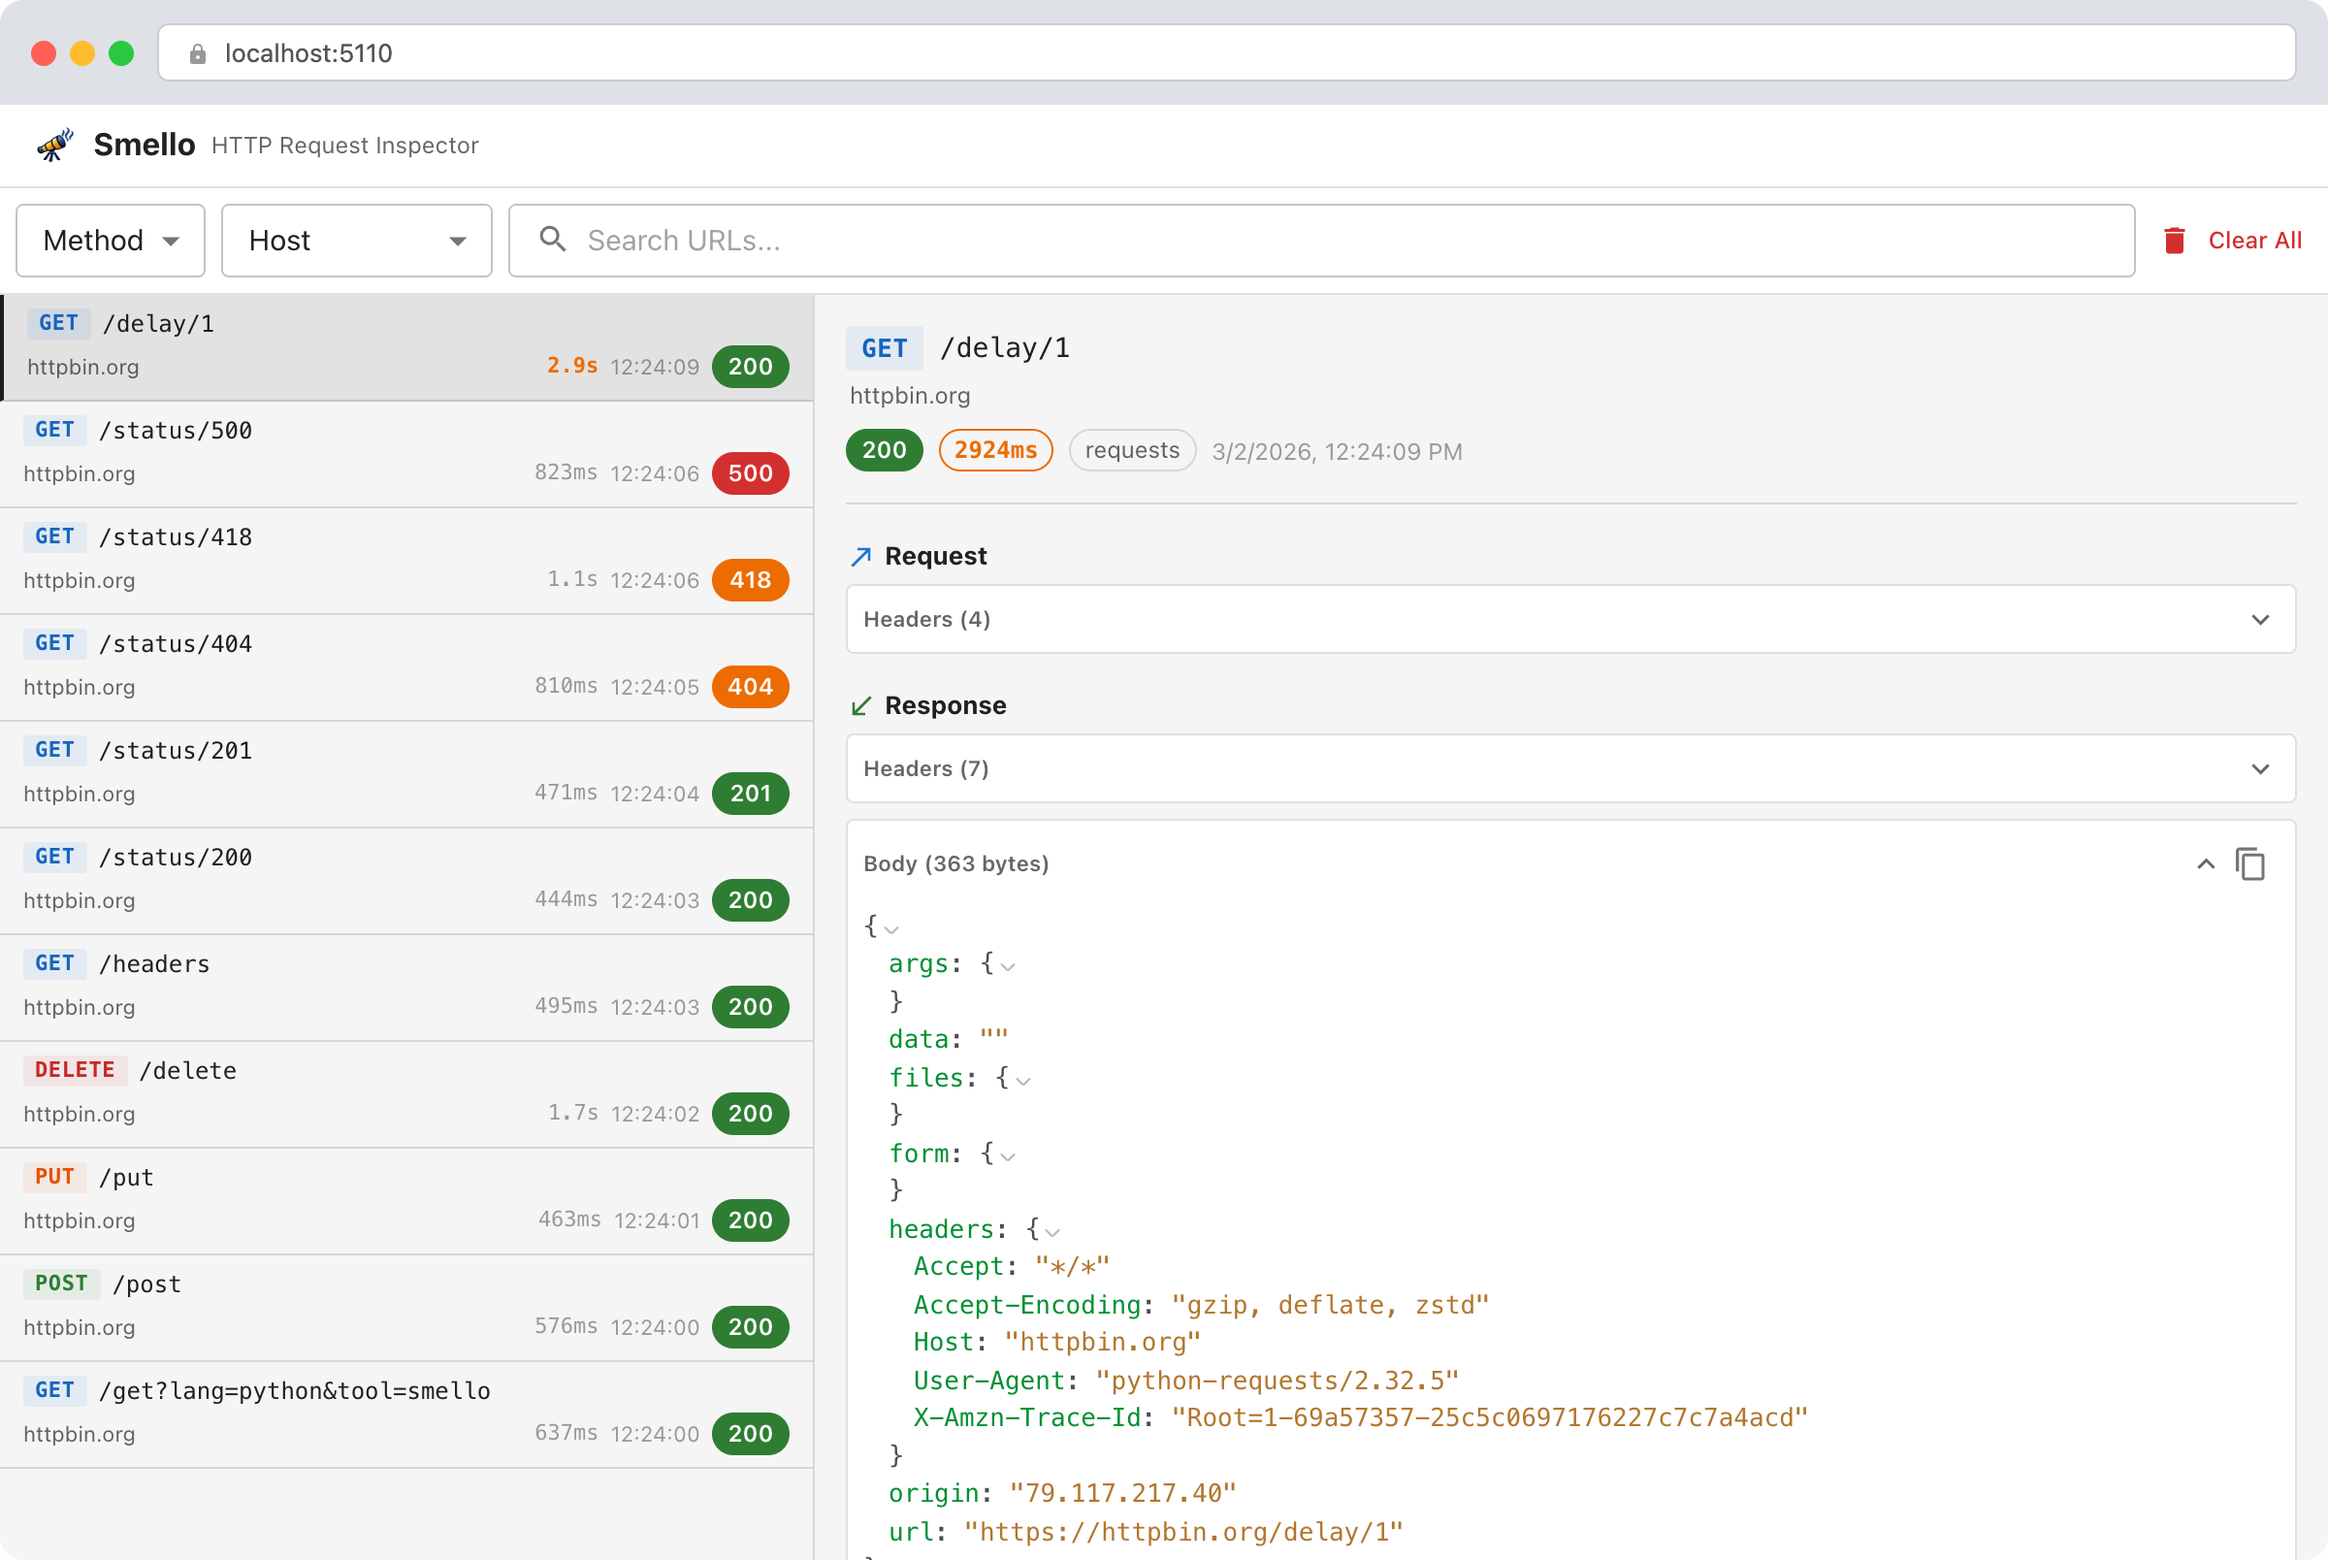
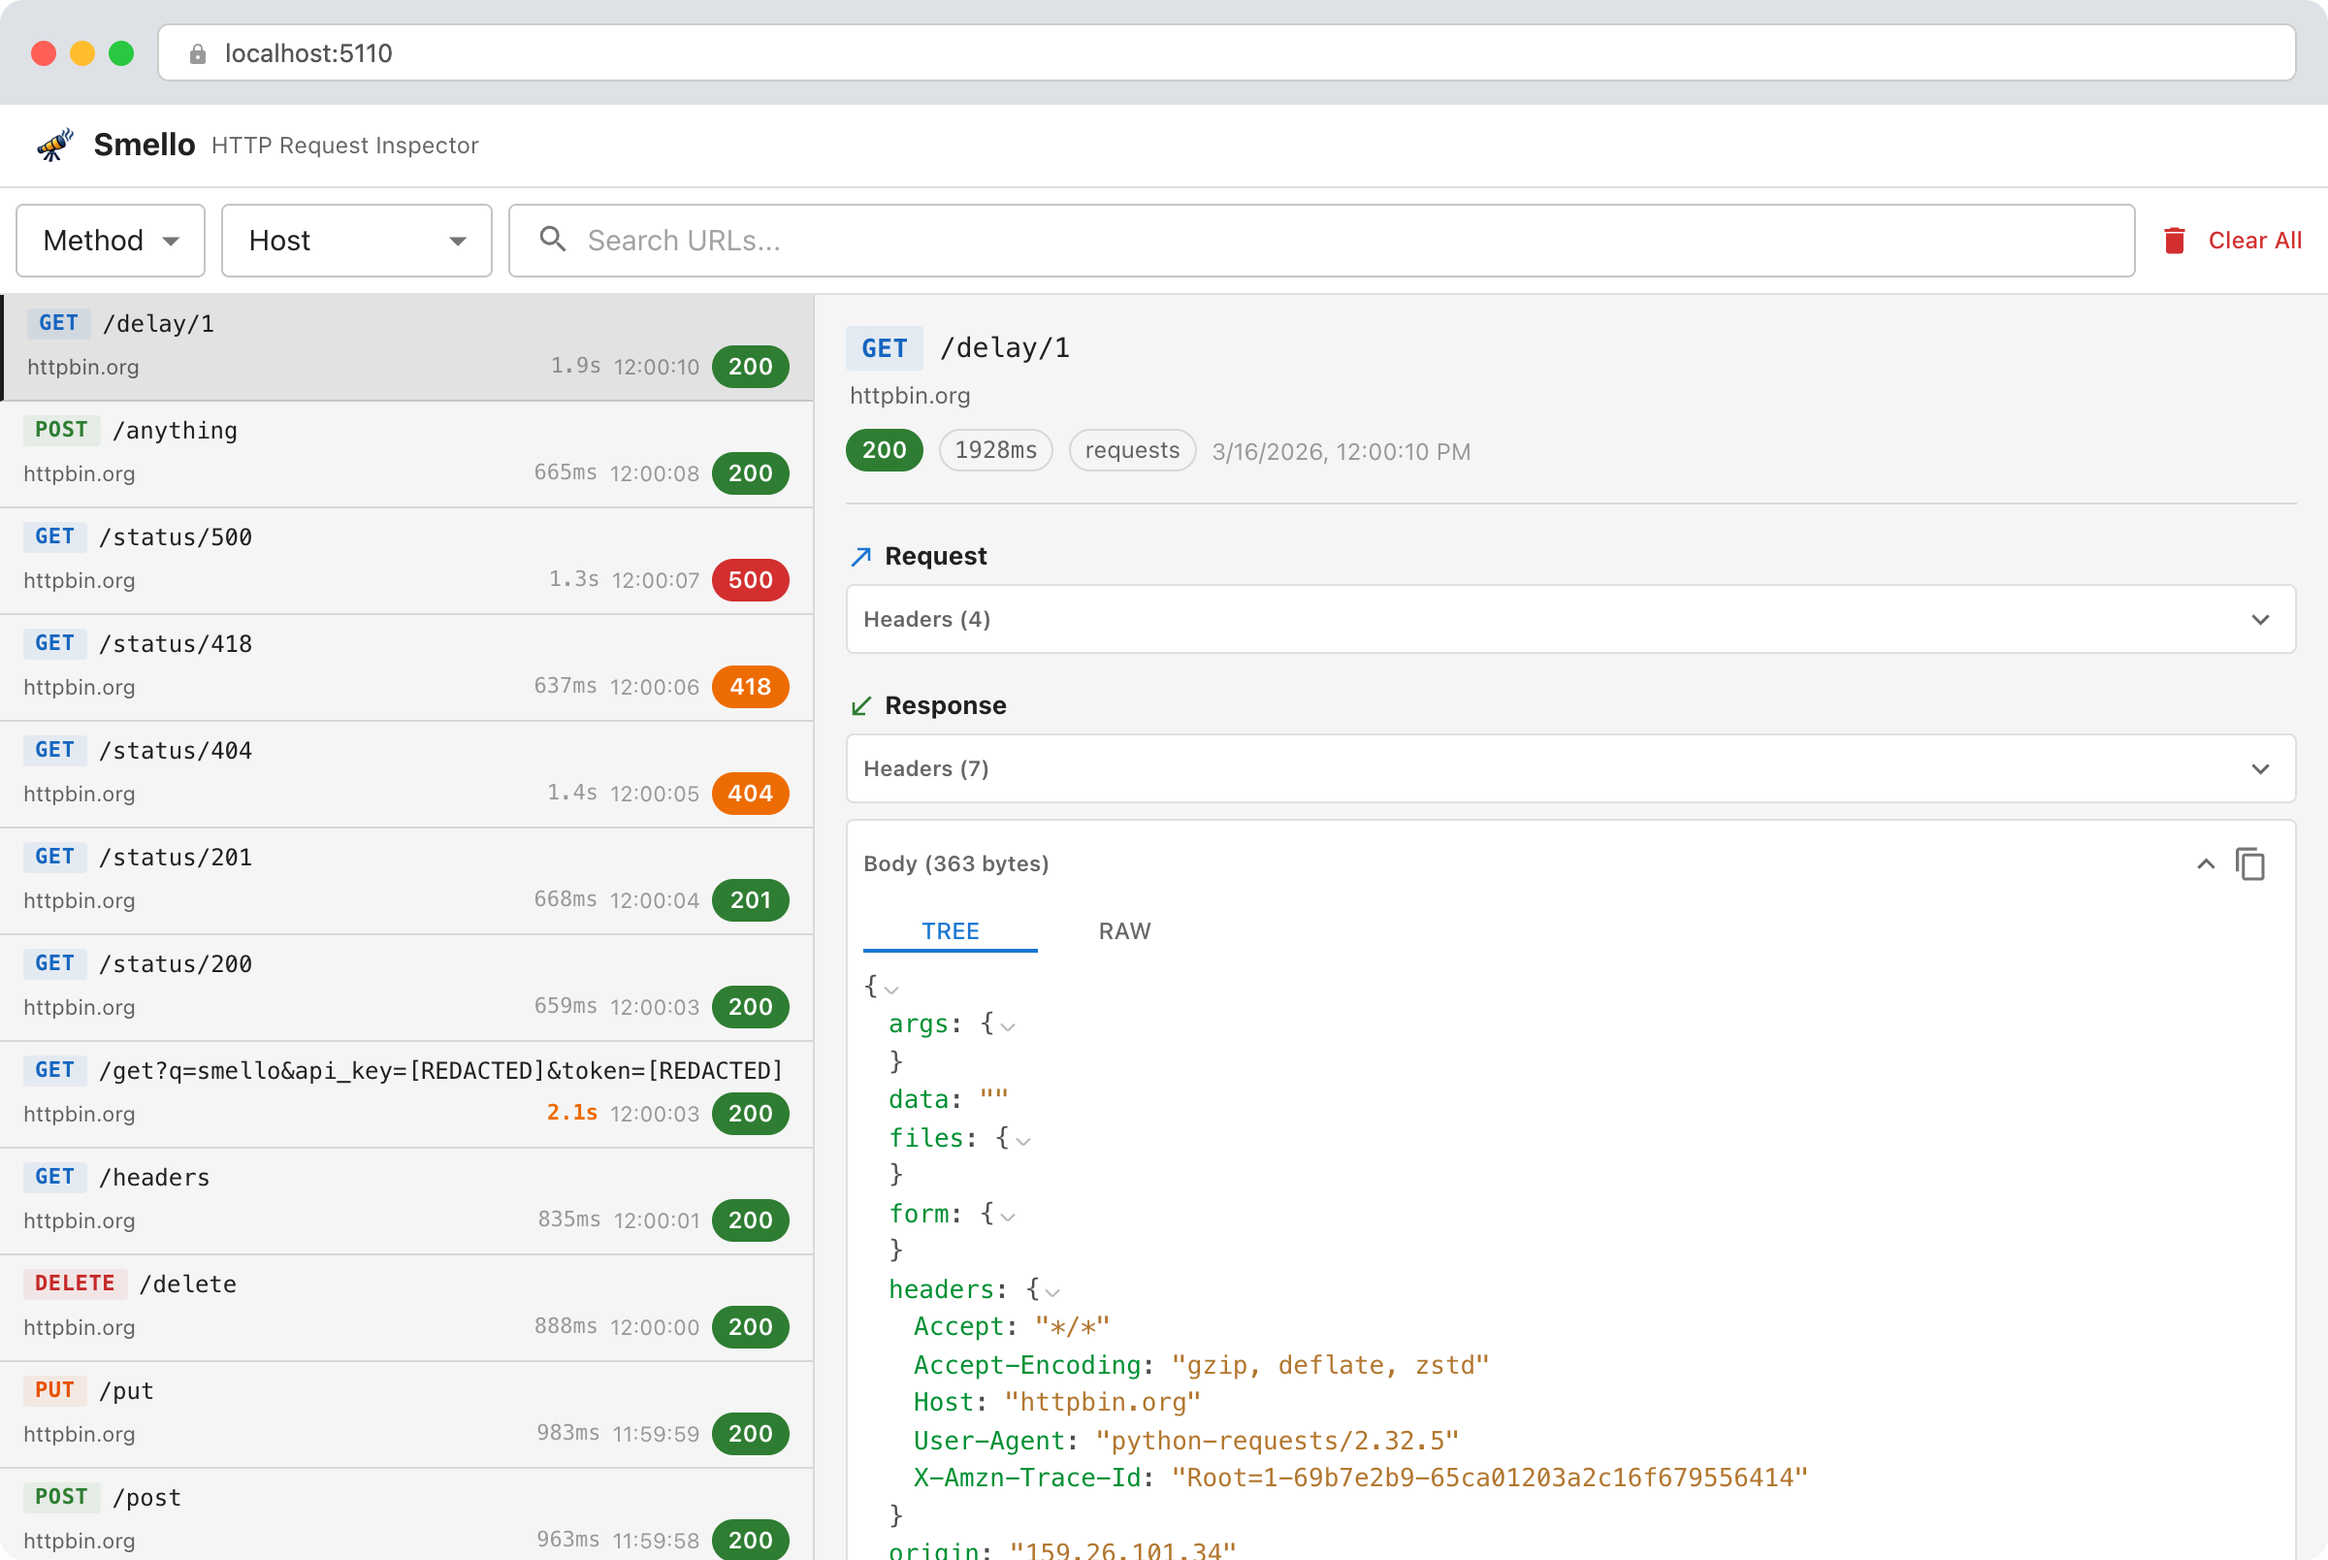
docs: add botocore support and XML rendering to docs
Update all three READMEs, changelogs, getting-started, and landing page
to document botocore/boto3 patching, XML body rendering with Tree/Raw
tabs, and the binary body fix. Regenerate dashboard screenshot.

diff --git a/docs/overrides/home.html b/docs/overrides/home.html
@@ -235,8 +235,8 @@
         <p>Headers, body, status code, and timing for every captured call. Sensitive headers redacted automatically.</p>
       </div>
       <div class="feature">
-        <h3>requests, httpx &amp; gRPC</h3>
-        <p>Auto-patches <code>requests</code> and <code>httpx</code>, sync and async. Captures gRPC from Google Cloud libraries.</p>
+        <h3>requests, httpx, gRPC &amp; boto3</h3>
+        <p>Auto-patches <code>requests</code>, <code>httpx</code>, <code>grpc</code>, and <code>botocore</code>. Captures Google Cloud and AWS SDK traffic.</p>
       </div>
     </div>
   </section>

diff --git a/docs/getting-started.md b/docs/getting-started.md
@@ -33,7 +33,7 @@ import smello
 smello.init(server_url="http://localhost:5110")
 ```
 
-That's it. Smello monkey-patches `requests`, `httpx`, and `grpc` to capture all outgoing traffic.
+That's it. Smello monkey-patches `requests`, `httpx`, `grpc`, and `botocore` to capture all outgoing traffic.
 
 ```python
 import requests
@@ -80,6 +80,22 @@ rows = client.query("SELECT 1").result()
 
 Any Python library that calls `grpc.secure_channel()` or `grpc.insecure_channel()` is captured.
 
+### AWS libraries (boto3)
+
+boto3 uses `botocore`, which calls `urllib3` directly, bypassing `requests` and `httpx`. Smello patches botocore's HTTP session to capture AWS API calls:
+
+```python
+import smello
+smello.init(server_url="http://localhost:5110")
+
+import boto3
+s3 = boto3.client("s3")
+buckets = s3.list_buckets()
+
+# AWS calls appear at http://localhost:5110 — XML responses
+# show as a collapsible tree, just like JSON.
+```
+
 ## What Smello captures
 
 For every outgoing request:
@@ -87,9 +103,9 @@ For every outgoing request:
 - Method, URL, headers, and body
 - Response status code, headers, and body
 - Duration in milliseconds
-- Library used (requests, httpx, or grpc)
+- Library used (requests, httpx, grpc, or botocore)
 
-The dashboard recognizes Unix timestamps in JSON bodies and shows the human-readable date in a tooltip.
+The dashboard recognizes Unix timestamps in JSON bodies and shows the human-readable date in a tooltip. XML responses (common in AWS S3, STS, EC2) appear as a collapsible tree, just like JSON. Both formats offer Tree and Raw tabs — Tree shows an expandable tree, Raw shows syntax-highlighted source.
 
 gRPC calls are displayed with a `grpc://` URL scheme. Protobuf request and response bodies are automatically serialized to JSON.
 
@@ -102,6 +118,7 @@ Smello redacts sensitive headers (`Authorization`, `X-Api-Key`) by default and o
 | **requests** | `Session.send()`                                       |
 | **httpx**    | `Client.send()` and `AsyncClient.send()`               |
 | **grpc**     | `insecure_channel()` and `secure_channel()` (unary-unary) |
+| **botocore** | `URLLib3Session.send()` (all boto3 / AWS SDK calls)    |
 
 ## Python version support
 

diff --git a/README.md b/README.md
@@ -68,7 +68,7 @@ For every outgoing request:
 - Method, URL, headers, and body
 - Response status code, headers, and body
 - Duration in milliseconds
-- Library used (requests, httpx, or grpc)
+- Library used (requests, httpx, grpc, or botocore)
 
 gRPC calls are displayed with a `grpc://` URL scheme (e.g. `grpc://bigquery.googleapis.com:443/...`). Protobuf request and response bodies are automatically serialized to JSON.
 
@@ -152,6 +152,23 @@ curl -X DELETE http://localhost:5110/api/requests
 - **requests** — patches `Session.send()`
 - **httpx** — patches `Client.send()` and `AsyncClient.send()`
 - **grpc** — patches `insecure_channel()` and `secure_channel()` to intercept unary-unary calls
+- **botocore** — patches `URLLib3Session.send()` to capture boto3 / AWS SDK traffic
+
+### AWS libraries (boto3)
+
+boto3 uses `botocore`, which calls `urllib3` directly, bypassing `requests` and `httpx`. Smello patches botocore's HTTP session to capture AWS API calls:
+
+```python
+import smello
+smello.init(server_url="http://localhost:5110")
+
+import boto3
+s3 = boto3.client("s3")
+buckets = s3.list_buckets()
+
+# AWS calls appear at http://localhost:5110 — XML responses
+# show as a collapsible tree, just like JSON.
+```
 
 ### Google Cloud libraries
 
@@ -200,7 +217,7 @@ Your Python App ──→ Smello Server ──→ Web Dashboard
 (smello.init())     (FastAPI+SQLite)   (localhost:5110)
 ```
 
-- **smello** (client SDK): Monkey-patches `requests`, `httpx`, and `grpc` to capture traffic. Sends data to the server in a background thread.
+- **smello** (client SDK): Monkey-patches `requests`, `httpx`, `grpc`, and `botocore` to capture traffic. Sends data to the server in a background thread.
 - **smello-server**: FastAPI app with SQLite. Receives captured data and serves a JSON API plus a React web dashboard.
 
 ## Project Structure

diff --git a/clients/python/README.md b/clients/python/README.md
@@ -34,7 +34,7 @@ resp = requests.get("https://api.stripe.com/v1/charges")
 # Browse captured requests at http://localhost:5110
 ```
 
-Smello monkey-patches `requests`, `httpx`, and `grpc` to capture all outgoing traffic. Browse results at `http://localhost:5110`.
+Smello monkey-patches `requests`, `httpx`, `grpc`, and `botocore` to capture outgoing traffic. Browse results at `http://localhost:5110`.
 
 Or leave `smello.init()` without arguments and set `SMELLO_URL` in your environment — no URL, no side effects.
 
@@ -60,7 +60,7 @@ Any library that calls `grpc.secure_channel()` or `grpc.insecure_channel()` is a
 - Method, URL, headers, and body
 - Response status code, headers, and body
 - Duration in milliseconds
-- Library used (requests, httpx, or grpc)
+- Library used (requests, httpx, grpc, or botocore)
 
 Smello redacts sensitive headers (`Authorization`, `X-Api-Key`) by default and optionally redacts query string parameters.
 
@@ -95,6 +95,7 @@ The server URL is the activation signal — `init()` does nothing unless `server
 - **requests** — patches `Session.send()`
 - **httpx** — patches `Client.send()` and `AsyncClient.send()`
 - **grpc** — patches `insecure_channel()` and `secure_channel()` to intercept unary-unary calls
+- **botocore** — patches `URLLib3Session.send()` to capture boto3 / AWS SDK traffic
 
 ## Requires
 

diff --git a/CLAUDE.md b/CLAUDE.md
@@ -46,7 +46,7 @@ just frontend-bundle            # build frontend + copy into server package for 
 
 This is a **uv workspace monorepo** with two packages plus a React frontend:
 
-- **`clients/python/` (smello)** — Client SDK with zero dependencies. Monkey-patches `requests.Session.send`, `httpx.Client.send`/`AsyncClient.send`, and `grpc.insecure_channel`/`grpc.secure_channel` to intercept outgoing traffic. Serializes request/response pairs and sends them to the server via a background thread using `urllib` (to avoid triggering its own patches).
+- **`clients/python/` (smello)** — Client SDK with zero dependencies. Monkey-patches `requests.Session.send`, `httpx.Client.send`/`AsyncClient.send`, `grpc.insecure_channel`/`grpc.secure_channel`, and `botocore.httpsession.URLLib3Session.send` to intercept outgoing traffic. Serializes request/response pairs and sends them to the server via a background thread using `urllib` (to avoid triggering its own patches).
 
 - **`server/` (smello-server)** — FastAPI app with Tortoise ORM + SQLite. Receives captured data at `POST /api/capture`, stores it, and serves a JSON API (`/api/*`). When `SMELLO_FRONTEND_DIR` points to a directory with built React assets, also serves the web dashboard.
 

diff --git a/clients/python/CHANGELOG.md b/clients/python/CHANGELOG.md
@@ -6,6 +6,14 @@ The format is based on [Keep a Changelog](https://keepachangelog.com/), and this
 
 ## [Unreleased]
 
+### Added
+
+- **botocore/boto3 support**: Patch `botocore.httpsession.URLLib3Session.send()` to capture AWS SDK traffic. boto3 uses urllib3 directly, bypassing requests and httpx, so it needs its own patch.
+
+### Fixed
+
+- Binary response bodies no longer show as garbled text. Patches now pass raw bytes to the serializer, which renders non-UTF-8 content as `[binary: N bytes]`.
+
 ## [0.5.0] - 2026-03-11
 
 ### Added

diff --git a/server/CHANGELOG.md b/server/CHANGELOG.md
@@ -6,6 +6,11 @@ The format is based on [Keep a Changelog](https://keepachangelog.com/), and this
 
 ## [Unreleased]
 
+### Added
+
+- **XML body rendering**: Parse XML responses (common in AWS S3, STS, EC2, IAM) into a collapsible tree view, matching the existing JSON treatment.
+- **Tree / Raw tabs** for JSON and XML bodies. Tree (default) shows an expandable tree; Raw shows syntax-highlighted source.
+
 ## [0.3.4] - 2026-03-11
 
 ### Added
